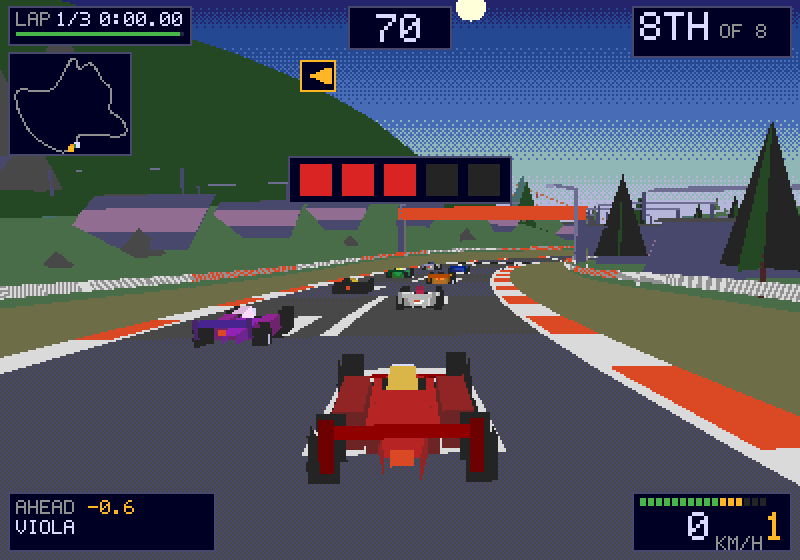
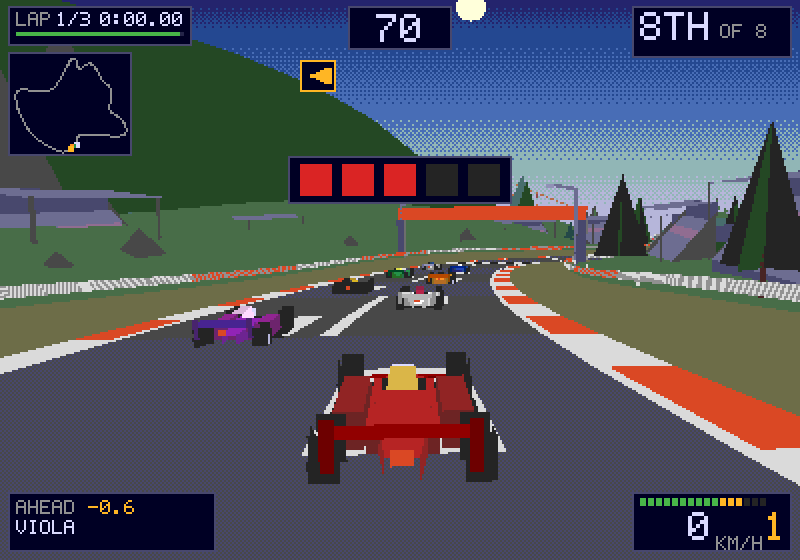
The grandstands were a stack of loose plates lying across the road
Two things wrong with them and they compounded.

They were built as separate surfaces - a seating slope, a roof, and a canopy
floating two metres above that on a pair of thin legs - so from any distance
the canopy read as a flat polygon hanging in the air with nothing holding it
up. Everything in the model now meets something else: back wall to roof, roof
to posts, posts to fascia, and end walls closing the sides. Nothing is left
over on its own.

And they were turned a quarter of a circle out: eighteen metres of stand
running across the track rather than along it, with the seats pointing up the
straight at nobody and the far end of it reaching towards the road. They face
across the circuit now, which is the only direction a grandstand has ever
faced.

They also stand at the track's own height rather than on the terrain, like
the floodlights and the marker posts: a circuit that climbs fifty metres
leaves anything sitting on the ground beside it hanging above or below the
road it belongs to.

Claude-Session: https://claude.ai/code/session_01PZ8PyQkJ4DK33cMJsF6sRB

diff --git a/src/render/models.js b/src/render/models.js
@@ -150,16 +150,32 @@ export function drawProp(rt, prop, x, y, z, tint, theme, facing = 0, time = 0, n
         0.13, 1.06, 0.01, -0.13, 1.06, 0.01]);
       break;
     case 'stand': {
-      // Seating on the slope, a roof over it, and a band of colour where the
-      // people are. Nobody is modelled: at this size a crowd is a texture, and
-      // there are no textures, so a crowd is a stripe.
-      const frame = tint(shade(theme.ridge, 0.8));
-      put.face(rt, frame, [-6, 0, -0.6, 6, 0, -0.6, 6, 4.6, 5.4, -6, 4.6, 5.4]);
-      put.face(rt, tint(C.crowd), [-6, 1.4, 1.2, 6, 1.4, 1.2, 6, 3.4, 3.6, -6, 3.4, 3.6]);
-      put.face(rt, tint(shade(theme.ridge, 0.6)), [-6, 4.6, 5.4, 6, 4.6, 5.4, 6, 4.6, -0.4, -6, 4.6, -0.4]);
-      put.face(rt, tint(C.metal), [-6, 6.6, -0.6, 6, 6.6, -0.6, 6, 6.9, 4.4, -6, 6.9, 4.4]);
-      put.face(rt, frame, [-6, 4.6, -0.5, -5.7, 4.6, -0.5, -5.7, 6.7, -0.5, -6, 6.7, -0.5]);
-      put.face(rt, frame, [5.7, 4.6, -0.5, 6, 4.6, -0.5, 6, 6.7, -0.5, 5.7, 6.7, -0.5]);
+      // A grandstand: long along the track, facing across it, and solid.
+      //
+      // It used to be a set of separate plates - a slope, a roof and a canopy
+      // floating two metres above that on two thin legs - which from any
+      // distance read as flat polygons hanging in the air rather than as a
+      // building. Everything here now meets something else: back wall to roof,
+      // roof to posts, posts to fascia. Nothing is left over on its own.
+      //
+      // Built facing local +z. Nobody is modelled: at this size a crowd is a
+      // texture, there are no textures, so a crowd is a stripe.
+      const wall = tint(shade(theme.ridge, 0.72));
+      const side = tint(shade(theme.ridge, 0.6));
+      const deck = tint(shade(theme.ridge, 0.94));
+      put.face(rt, wall, [-9, 0, -5, 9, 0, -5, 9, 8.4, -5, -9, 8.4, -5]);
+      put.face(rt, deck, [-9, 1, 0, 9, 1, 0, 9, 6.4, -4.6, -9, 6.4, -4.6]);
+      put.face(rt, tint(C.crowd), [-8.4, 2.2, -1.4, 8.4, 2.2, -1.4,
+        8.4, 5.2, -3.4, -8.4, 5.2, -3.4]);
+      put.face(rt, wall, [-9, 0, 0, 9, 0, 0, 9, 1, 0, -9, 1, 0]);
+      put.face(rt, side, [-9, 0, 0, -9, 0, -5, -9, 7.4, -5, -9, 1, 0]);
+      put.face(rt, side, [9, 0, -5, 9, 0, 0, 9, 1, 0, 9, 7.4, -5]);
+      put.face(rt, tint(C.metal), [-9.4, 8.4, -5.2, 9.4, 8.4, -5.2,
+        9.4, 7.6, 0.8, -9.4, 7.6, 0.8]);
+      for (const at of [-8.6, 8.6]) {
+        put.face(rt, side, [at - 0.3, 1, 0.4, at + 0.3, 1, 0.4,
+          at + 0.3, 7.7, 0.6, at - 0.3, 7.7, 0.6]);
+      }
       break;
     }
     case 'block':

diff --git a/src/game/route.js b/src/game/route.js
@@ -584,9 +584,17 @@ function scatter(nodes, rnd) {
   // The grandstands go where the grid is, which on a circuit is where the start
   // line is - and node zero is a place you come back to every lap rather than
   // somewhere you leave once.
-  for (let i = -22; i < 14; i += 4) {
-    add(i, { kind: 'stand', side: -1, off: 24, s: 1, r: 0, align: true });
-    add(i, { kind: 'stand', side: 1, off: 24, s: 1, r: Math.PI, align: true });
+  // Turned a quarter, because a grandstand is long along the track and faces
+  // across it - the other way round it is a wall standing in the road with its
+  // seats pointing up the straight at nobody. And stood on the track's own
+  // height, or a circuit that climbs leaves them hanging in the air beside it.
+  for (let i = -22; i < 18; i += 6) {
+    add(i, {
+      kind: 'stand', side: -1, off: 26, s: 1, r: Math.PI / 2, align: true, flat: true,
+    });
+    add(i, {
+      kind: 'stand', side: 1, off: 26, s: 1, r: -Math.PI / 2, align: true, flat: true,
+    });
   }
 
   // Flair: the things you look at rather than drive past.
